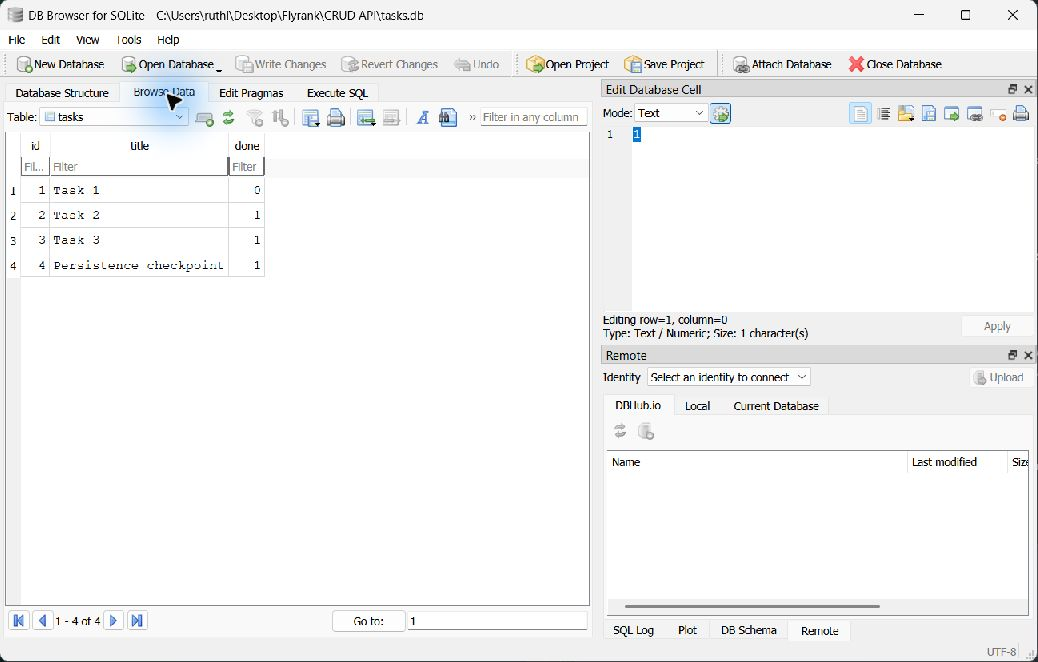
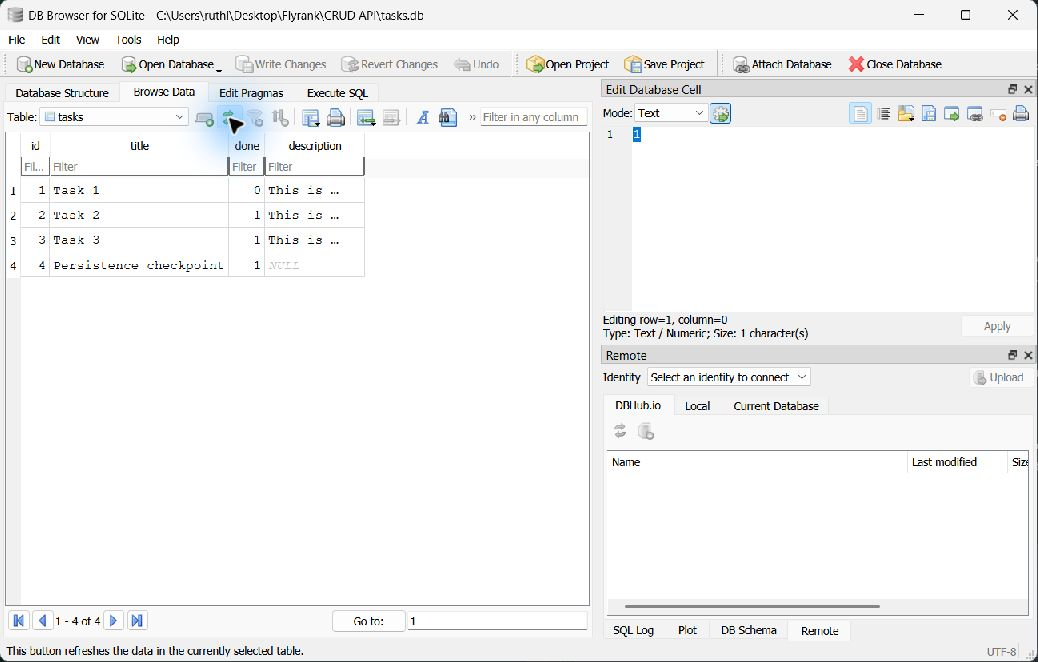
Stage 5: document Java setup and SQLite verification

diff --git a/README.md b/README.md
@@ -1,18 +1,28 @@
 # Task API
 
-A small REST API for creating, reading, updating, and deleting tasks. It uses Express, stores tasks in memory, and provides interactive OpenAPI documentation through Swagger UI.
+A small Java 17 REST API for creating, reading, updating, and deleting tasks. It uses Java's HTTP server, SQLite JDBC for storage, and Gson for JSON. Interactive OpenAPI documentation is available through Swagger UI.
 
 ## Install and run
 
-With Node.js and npm installed, run this command from the project directory:
+Install JDK 17 or newer and put its `java` and `javac` commands on PATH. From the project directory on Windows, run:
 
 ```powershell
-npm install; node index.js
+.\run.ps1
 ```
 
 The API runs at `http://localhost:3000`, and Swagger UI is available at `http://localhost:3000/docs`.
 
-Tasks are stored in memory, so changes are reset when the server restarts.
+The script selects the JDK on PATH and uses the included Maven wrapper to download Maven and the Java dependencies on the first run. Internet access is needed for that download and for Swagger UI's browser assets. Stop the server with Ctrl+C.
+
+On macOS or Linux, set `JAVA_HOME` to your JDK and run `./mvnw -q compile exec:java`.
+
+## SQLite storage
+
+SQLite keeps the database in one file, needs no separate database server, and saves changes across server restarts. The app creates `tasks.db` in the project directory and creates the `tasks` table automatically. The file is git-ignored, so a fresh clone creates its own database.
+
+The table has `id INTEGER PRIMARY KEY`, `title TEXT`, and `done INTEGER`. An additional nullable `description TEXT` column preserves the optional descriptions on A1's example tasks. SQLite stores `done` as 0 or 1; the API returns a JSON boolean. The database assigns new IDs. Three example tasks are inserted only when the table is empty, so restarting a populated database does not duplicate them.
+
+Request bodies are unchanged. Seed responses retain their `description`; new tasks return `id`, `title`, and `done`, just as in A1. An existing three-column `tasks.db` is upgraded automatically without deleting its rows. All values supplied by clients are bound through JDBC prepared statements.
 
 ## Endpoints
 
@@ -32,16 +42,57 @@ Tasks are stored in memory, so changes are reset when the server restarts.
 ```text
 PS> curl.exe -s -i http://localhost:3000/health
 HTTP/1.1 200 OK
-X-Powered-By: Express
 Content-Type: application/json; charset=utf-8
 Content-Length: 15
-ETag: W/"f-v/Y1JusChTxrQUzPtNAKycooOTA"
-Date: Thu, 10 Sep 2026 14:41:57 GMT
-Connection: keep-alive
-Keep-Alive: timeout=5
 
 {"status":"OK"}
 ```
+
+## Database inspection and SQL
+
+Open the project's `tasks.db` in DB Browser for SQLite and select **Browse Data**, then the `tasks` table. This screenshot shows the three seeds and a task created through the API, still present after restarting the Java process:
+
+![Persisted tasks in DB Browser](docs/database.png)
+
+In **Execute SQL**, this query returned Task 2 and Task 3, the two completed seed tasks:
+
+```sql
+SELECT * FROM tasks WHERE done = 1;
+```
+
+![Completed seed tasks returned by SQL](docs/completed-tasks.png)
+
+After creating the verification task with ID 4, `UPDATE tasks SET done = 1 WHERE id = 4;` was run in DB Browser and saved with **Write Changes**. `GET /tasks/4` immediately returned `done: true`, without restarting the API.
+
+![Direct SQL update and matching rows](docs/sql-change.png)
+
+The five Stage 4 queries are saved in [docs/queries.sql](docs/queries.sql). The update-all and delete statements are checked against a disposable database by the verification program.
+
+## Verification
+
+With `JAVA_HOME` pointing to your JDK, run:
+
+```powershell
+.\mvnw.cmd -q test-compile exec:java "-Dexec.mainClass=ApiCheck" "-Dexec.classpathScope=test"
+```
+
+This uses a temporary database and an available port. It checks automatic setup, three seed restarts, all CRUD endpoints, invalid JSON and field types, partial updates, SQL-looking titles, live direct SQL changes, empty 204 bodies, and persistence after closing and reopening the server and database. It never modifies the project's database.
+
+The running app was also checked with `curl.exe -i`: create returned 201, reads and updates returned 200, deletion returned an empty 204, missing tasks returned JSON 404 errors, and an empty title returned a JSON 400 error. A task created before stopping the Java process was returned after starting it again.
+
+## Section 6 requirements
+
+- [x] Five CRUD endpoints keep the required task fields and request bodies.
+- [x] Tasks are stored in `tasks.db` through SQL.
+- [x] Persistence is verified through the API and DB Browser.
+- [x] Missing database files and tables are created automatically.
+- [x] Three examples are seeded when empty; restarts do not duplicate them.
+- [x] Client values use parameterized SQL placeholders.
+- [x] Success codes are 200/201/204; invalid bodies and missing IDs return JSON 400/404 errors.
+- [x] README includes the SQLite choice, run command, SQL example, and DB Browser screenshots.
+- [ ] Push the stage commits to the same public GitHub repository.
+
+Stages 0-5 have separate local commits. Optional extras and the bonus stage are not included.
 
 ## Swagger UI
 
